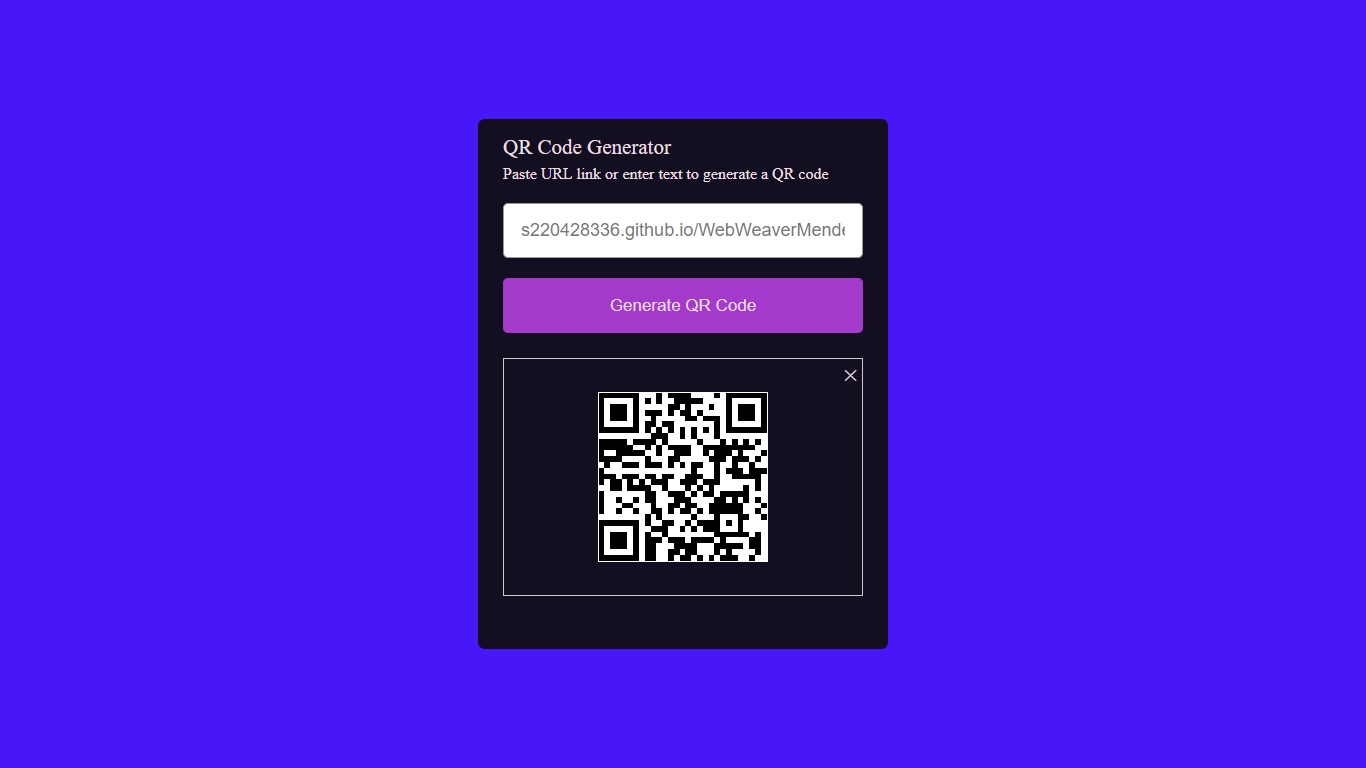
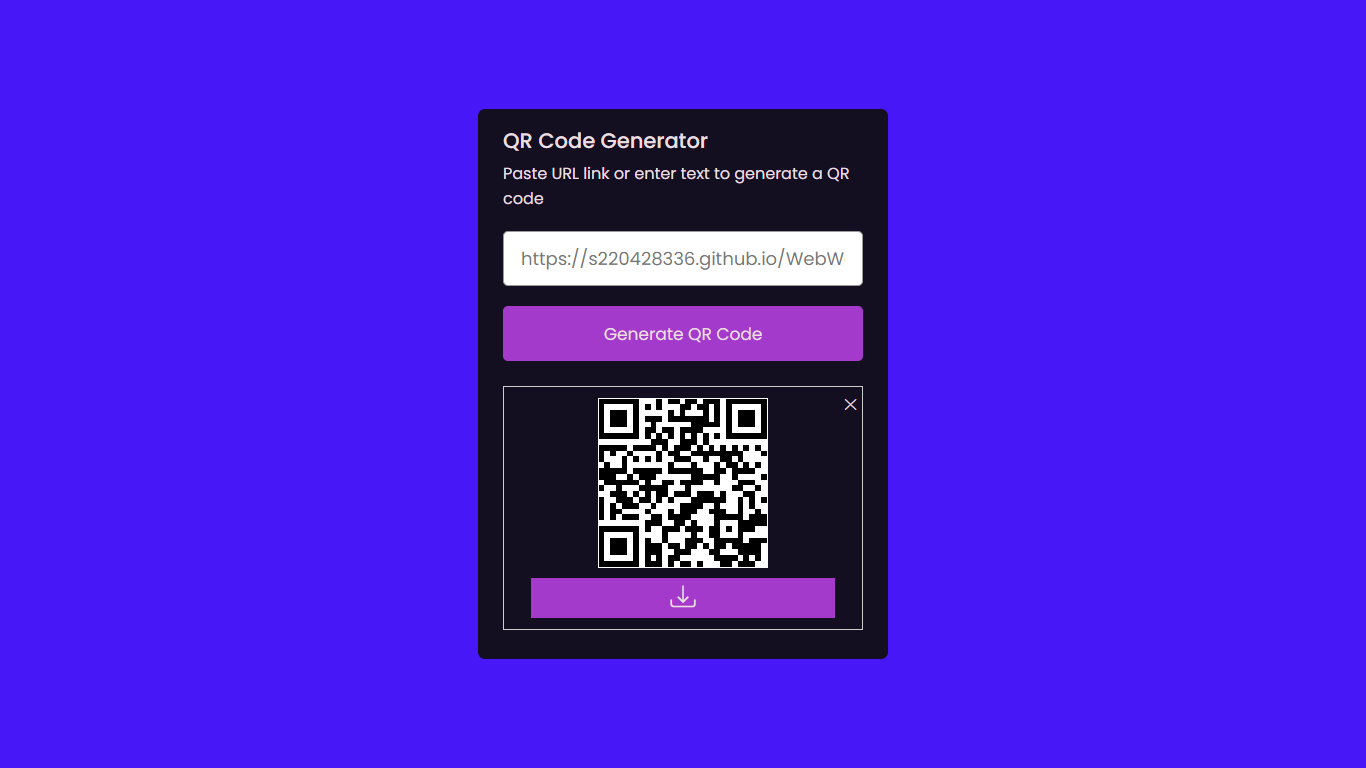
Added qr images and link redirects. fixed exp list

Changed region(s): [[0.3382, 0.125, 0.6457, 0.5], [0.369, 0.5, 0.6149, 0.8125], [0.3382, 0.8438, 0.6457, 0.875]]

diff --git a/index.html b/index.html
@@ -126,12 +126,16 @@
                                 <dl>
                                     <dt class="roleYear dipIT">NDip (Information Technology: Software Development)</b><br/>
                                     <u class="sub-bold">Major(s):</u><br/></dt>
-                                    <dd>&emsp;Development Software III (<i>C# & Project</i>), </dd>
-                                    <dd>&emsp;Information Systens III (<i>Project Best Practice, Systems Analysis and Design, & Advanced Design</i>)</dd>
+                                    <ul class="list-of-expeirences">
+                                        <li><dd>Development Software III (<i>C# & Project</i>), </dd></li>
+                                        <li><dd>Information Systens III (<i>Project Best Practice, Systems Analysis and Design, & Advanced Design</i>)</dd></li>
+                                    </ul>
                                     
                                     <!-- <dt class="roleYear advDipIT"><b>AdvDip (Information Technology: Software Development)</b><br/>
                                     <u class="sub-bold">Major(s):</u><br/></dt>
-                                    <dd>&emsp;Applied Project</dd> -->
+                                    <ul class="list-of-expeirences">
+                                        <li><dd>Applied Project</dd></li>
+                                    </ul> -->
                                 </dl>
                             </p>
                         </div>
@@ -141,15 +145,21 @@
                                 <dl>
                                     <dt><b class="roleYear bzvRoles">Bazovela Solutions (Pty) Ltd.:</b><br/>
                                     <u class="sub-bold">Role(s):</u></dt>
-                                    <dd>&emsp;Administration & Technical Support</dd>
+                                    <ul class="list-of-expeirences">
+                                        <li><dd>Administration & Technical Support</dd></li>
+                                    </ul>
 
                                     <dt><b class="roleYear faoRoles">Face Of Azania Pageant (2023 Finale):</b><br/>
                                     <u class="sub-bold">Role(s):</u></dt>
-                                    <dd>&emsp;Crew (Volunteer)</dd>
+                                    <ul class="list-of-expeirences">
+                                        <li><dd>Crew (Volunteer)</dd></li>
+                                    </ul>
 
                                     <!-- <dt><b class="roleYear nmuAssistRoles">Nelson Mandela University:</b><br/>
                                     <u class="sub-bold">Role(s):</u></dt>
-                                    <dd>&emsp;Lecturer Assistant</dd> -->
+                                    <ul class="list-of-expeirences">
+                                        <li><dd>Lecturer Assistant</dd></li>
+                                    </ul> -->
                                 </dl>
                             </p>
                         </div>

diff --git a/project.html b/project.html
@@ -349,7 +349,7 @@
                                 </div>
                                 <div class="card-back">
                                     <span class="close-back"><i class="bi bi-x"></i></span>
-                                    <div class="p"><h4>QR Code Generator</h4>
+                                    <div class="p"><a href="https://s220428336.github.io/QR-Code-Generator/" target="_blank"><h4>QR Code Generator <sup><i class="bi bi-box-arrow-up-right name-color" style="font-size: 8px;"></i></sup></h4></a>
                                         <ul>
                                         <li><a class="name-color" href="https://github.com/s220428336/QR-Code-Generator" target="_blank">Github repo</a><br/></li>
                                         <li><i>Technology used:</i> <u>HTML, CSS, JavaScript, API</u></li>
@@ -366,6 +366,8 @@
                                     <img src="img/QR/QR Code (1).png" width="350px">
                                     <img src="img/QR/QR Code (2).png" width="350px">
                                     <img src="img/QR/QR Code (3).png" width="350px">
+                                    <img src="img/QR/QR Code (4).png" width="350px">
+                                    <img src="img/QR/QR Code (5).png" width="350px">
                                     
                                 </div>
                             </div>
@@ -390,7 +392,7 @@
                                 </div>
                                 <div class="card-back">
                                     <span class="close-back"><i class="bi bi-x"></i></span>
-                                    <div class="p"><h4>QR Code Scanner</h4>
+                                    <div class="p"><a href="https://s220428336.github.io/QR-Code-Scanner/" target="_blank"></a><h4>QR Code Scanner <sup><i class="bi bi-box-arrow-up-right name-color" style="font-size: 8px;"></i></sup></h4></a>
                                         <ul>
                                         <li><a class="name-color" href="https://github.com/s220428336/QR-Code-Scanner" target="_blank">Github repo</a><br/></li>
                                         <li><i>Technology used:</i> <u>HTML, CSS, JavaScript, API</u></li>
@@ -407,6 +409,9 @@
                                     <img src="img/qr-scanner/qr-scanner (1).png" width="350px">
                                     <img src="img/qr-scanner/qr-scanner (2).png" width="350px">
                                     <img src="img/qr-scanner/qr-scanner (3).png" width="350px">
+                                    <img src="img/qr-scanner/qr-scanner (4).png" width="350px">
+                                    <img src="img/qr-scanner/qr-scanner (5).png" width="350px">
+                                    <img src="img/qr-scanner/qr-scanner (6).png" width="350px">
                                     
                                 </div>
                             </div>

diff --git a/css/style.css b/css/style.css
@@ -456,6 +456,14 @@ main {
     z-index: 3; */
 }
 
+.list-of-expeirences{
+    list-style: none;
+    text-indent: -2.5rem;
+}
+.list-of-expeirences li{
+    text-indent: -1.5rem;
+}
+
 .experience-block{
     width: 100%;
     height: auto;
